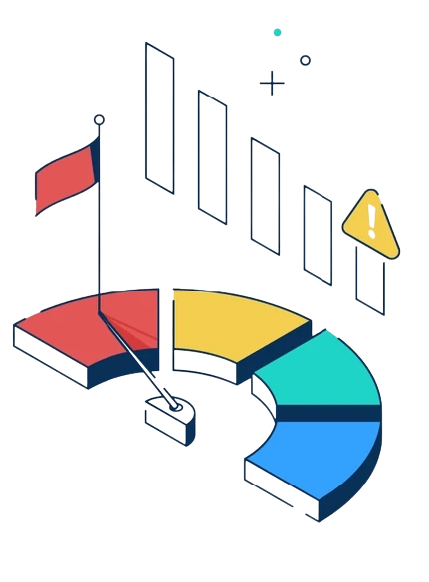
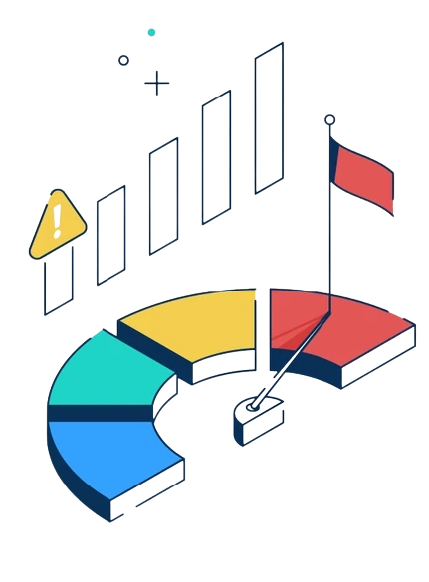
update asset

diff --git a/pages/index.tsx b/pages/index.tsx
@@ -53,7 +53,7 @@ const Home: NextPage = () => (
         <img
           src={Illustration2.src}
           alt="Promotional ilustration"
-          className="absolute left-5 bottom-0 hidden md:block h-0 md:h-[500px] aspect-1 blur-md"
+          className="absolute right-5 bottom-0 hidden md:block h-0 md:h-[500px] aspect-1 blur-md"
         />
         <div className="relative bg-[#f8ba37] h-screen m-auto flex flex-col justify-center p-6">
           <HowItWorks />
